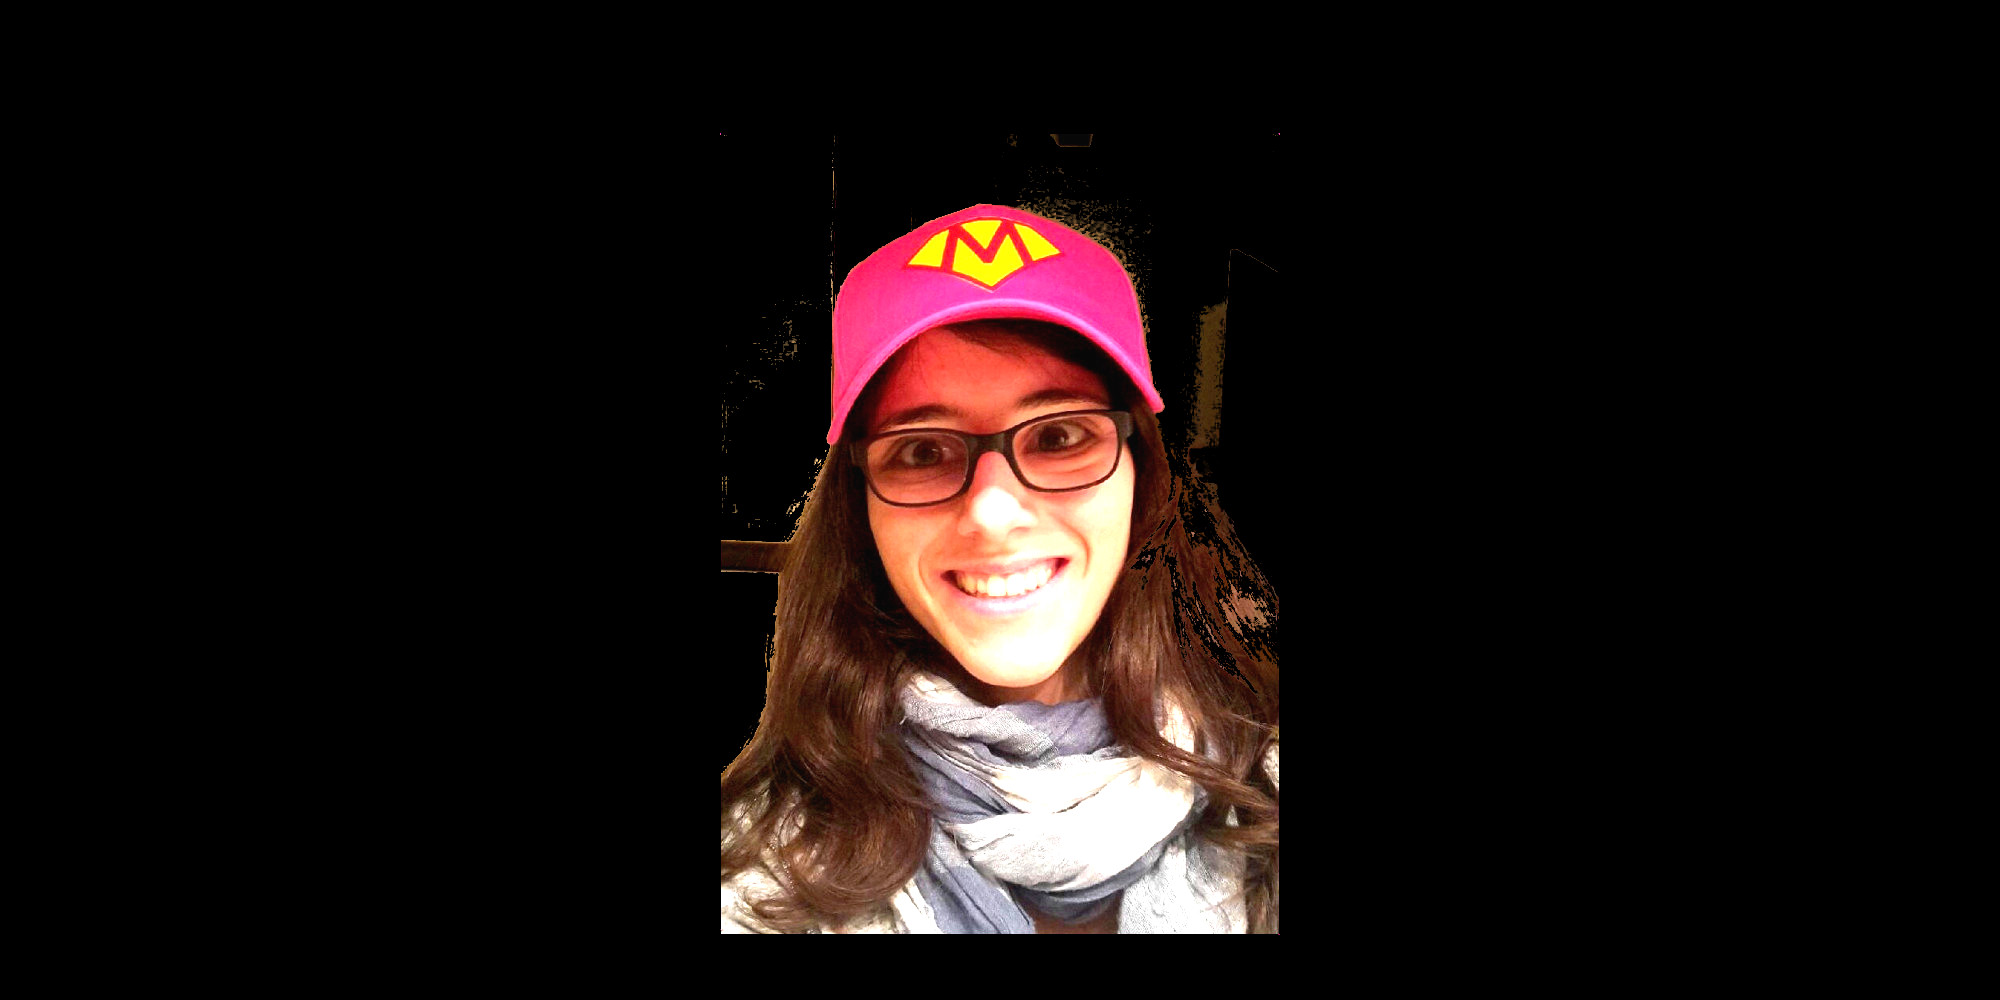
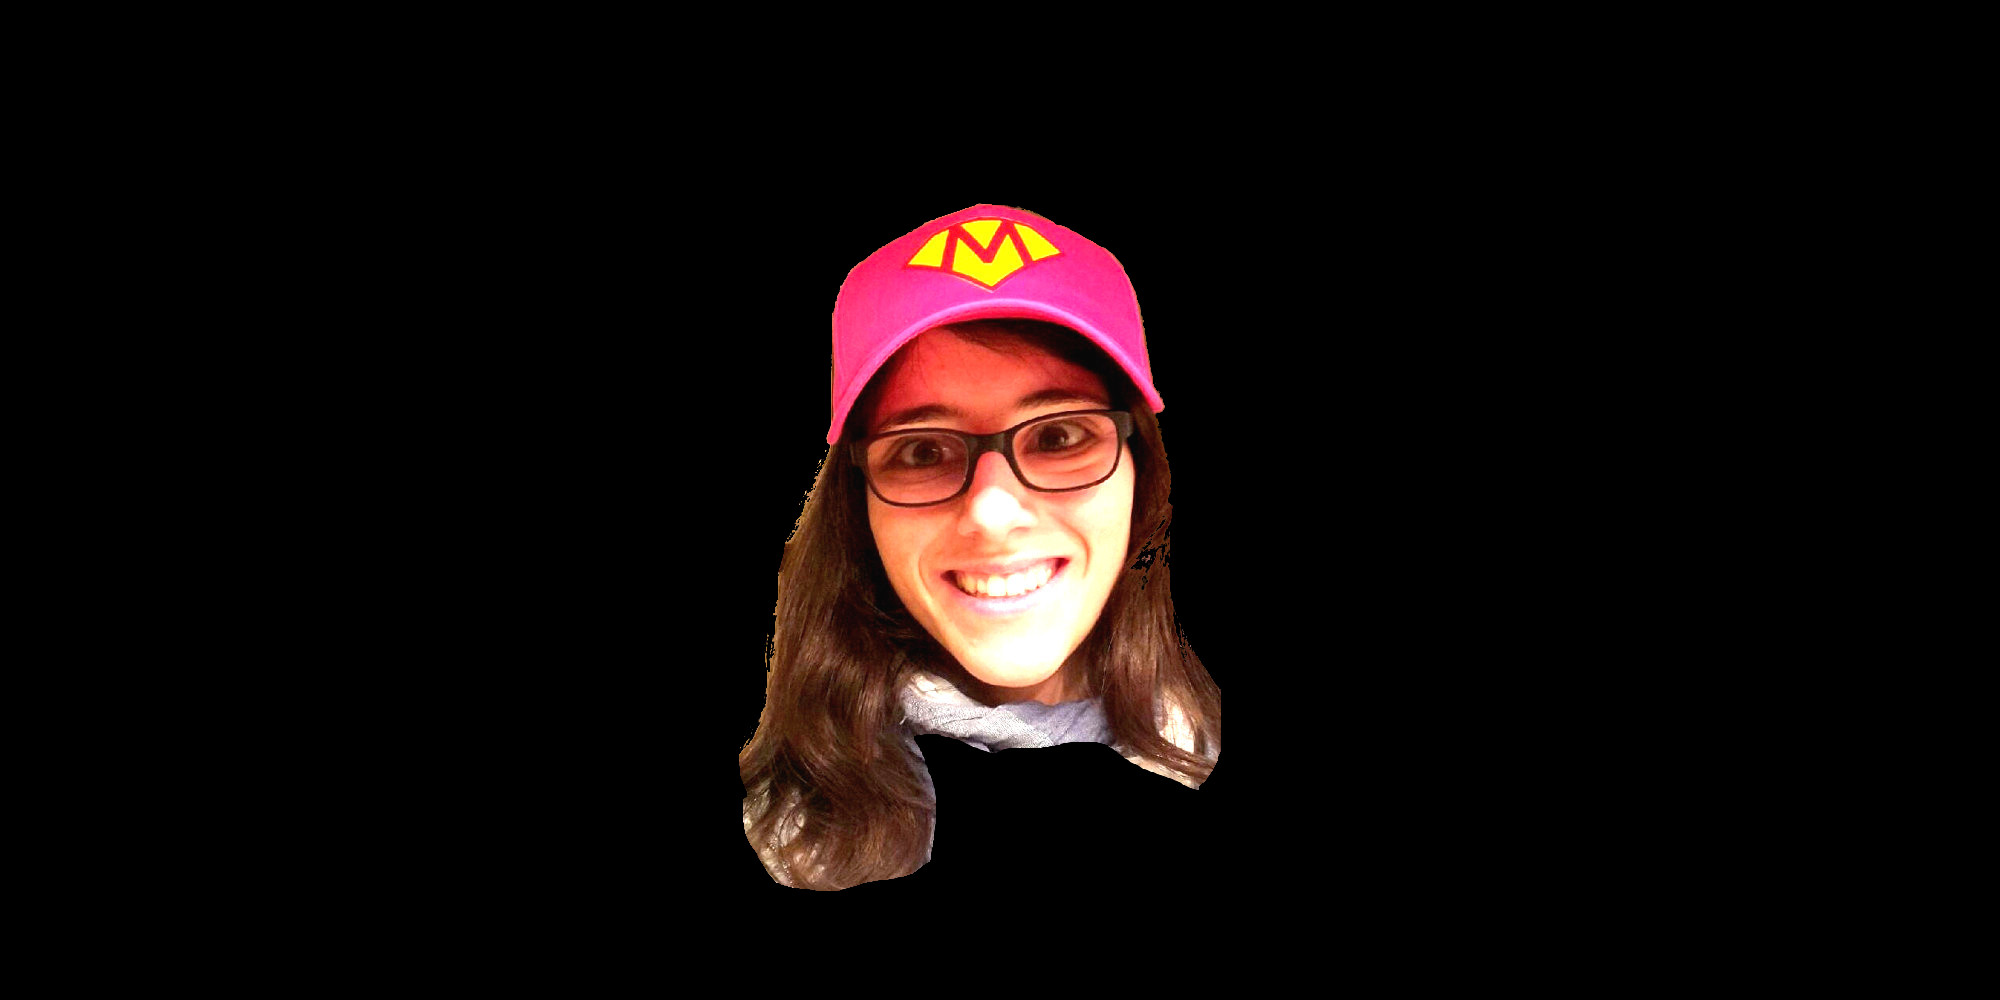
add smoothg image

diff --git a/MendezTransform/MendezView.m b/MendezTransform/MendezView.m
@@ -33,14 +33,16 @@
     transformsView.frame = CGRectMake(0, self.bounds.size.width/2,
                                       self.bounds.size.width, height);
     
-    comparingButton.frame = CGRectMake(0, buttony, 2 * buttonunit, controlsheight);
-    fineButton.frame = CGRectMake(2 * buttonunit, buttony, controlsheight, controlsheight);
+    comparingButton.frame = CGRectMake(3, buttony + 3, 2 * buttonunit - 6, controlsheight - 6);
+    fineButton.frame = CGRectMake(2 * buttonunit + 3, buttony + 3, buttonunit - 6, controlsheight - 6);
     
-    axisButton.frame = CGRectMake(3 * buttonunit, buttony, buttonunit, controlsheight);
+    axisButton.frame = CGRectMake(3 * buttonunit + 3, buttony + 3, buttonunit - 6, controlsheight - 6);
     
-    colorButton.frame = CGRectMake(9 * buttonunit, buttony, buttonunit, controlsheight);
+    randomButton.frame = CGRectMake(4 * buttonunit + 3, buttony + 3, buttonunit - 6, controlsheight - 6);
+    colorButton.frame = CGRectMake(8 * buttonunit + 3, buttony + 3, buttonunit - 6, controlsheight - 6);
+    smoothButton.frame = CGRectMake(9 * buttonunit + 3, buttony + 3, buttonunit - 6, controlsheight - 6);
     
-    imageSelectionButton.frame = CGRectMake(10 * buttonunit, buttony, 2 * buttonunit, controlsheight);
+    imageSelectionButton.frame = CGRectMake(10 * buttonunit + 3, buttony + 3, 2 * buttonunit - 6, controlsheight - 6);
 }
 
 - (void)setupSubviews {
@@ -54,25 +56,41 @@
     [self addSubview: transformsView];
     
     comparingButton = [[UIButton alloc] init];
+    comparingButton.backgroundColor = [UIColor whiteColor];
     [comparingButton setTitleColor: [UIColor blackColor] forState: UIControlStateNormal];
     [comparingButton setTitle: @"Rotate" forState: UIControlStateNormal];
     [comparingButton addTarget: self action: @selector(toggleComparing:) forControlEvents: UIControlEventTouchUpInside];
     [self addSubview: comparingButton];
     
     fineButton = [[UIButton alloc] init];
+    fineButton.backgroundColor = [UIColor whiteColor];
     [fineButton setTitleColor: [UIColor blackColor] forState: UIControlStateNormal];
     [fineButton setTitle: @"Fine" forState: UIControlStateNormal];
     [fineButton addTarget: self action: @selector(toggleFine:) forControlEvents: UIControlEventTouchUpInside];
     [self addSubview: fineButton];
     
     axisButton = [[UIButton alloc] init];
+    axisButton.backgroundColor = [UIColor whiteColor];
     [axisButton setTitleColor: [UIColor blackColor] forState: UIControlStateNormal];
     [axisButton setTitle: @"Axis" forState: UIControlStateNormal];
     [axisButton addTarget: spheresView action: @selector(toggleAxis:) forControlEvents: UIControlEventTouchUpInside];
     [self addSubview: axisButton];
     
+    randomButton = [[UIButton alloc] init];
+    randomButton.backgroundColor = [UIColor whiteColor];
+    [randomButton setTitleColor: [UIColor blackColor] forState: UIControlStateNormal];
+    [randomButton setTitle: @"Random" forState: UIControlStateNormal];
+    [self addSubview: randomButton];
+    
+    smoothButton = [[UIButton alloc] init];
+    smoothButton.backgroundColor = [UIColor whiteColor];
+    [smoothButton setTitleColor: [UIColor blackColor] forState:UIControlStateNormal];
+    [smoothButton setTitle: @"Smooth" forState: UIControlStateNormal];
+    [self addSubview: smoothButton];
+    
     // Button to switch to color mode
     colorButton = [[UIButton alloc] init];
+    colorButton.backgroundColor = [UIColor whiteColor];
     [colorButton setTitleColor: [UIColor blackColor] forState: UIControlStateNormal];
     [colorButton setTitle: @"Mono" forState: UIControlStateNormal];
     [colorButton addTarget: self action: @selector(colorPressed:) forControlEvents: UIControlEventTouchUpInside];
@@ -80,6 +98,7 @@
     
     // Button to request the image selection
     imageSelectionButton = [[UIButton alloc] init];
+    imageSelectionButton.backgroundColor = [UIColor whiteColor];
     [imageSelectionButton setTitleColor: [UIColor blackColor] forState: UIControlStateNormal];
     [imageSelectionButton setTitle: @"Select Image" forState: UIControlStateNormal];
 
@@ -173,5 +192,14 @@
     NSLog(@"setting prerotation in MendezView");
     spheresView.prerotation = App2SCN3(r);
 }
+
+- (void)addRandomButtonTarget: (id)target action: (SEL)action {
+    [randomButton addTarget: target action: action forControlEvents:UIControlEventTouchUpInside];
+}
+
+- (void)addSmoothButtonTarget: (id)target action: (SEL)action {
+    [smoothButton addTarget: target action:action forControlEvents:UIControlEventTouchUpInside];
+}
+
 
 @end

diff --git a/MendezTransform/SpheresView.m b/MendezTransform/SpheresView.m
@@ -11,7 +11,7 @@
 
 @implementation SpheresView
 
-@synthesize fine, center;
+@synthesize center;
 
 #define SPHERE_SEPARATION   3.3
 #define SPHERE_RADIUS       3.0
@@ -26,16 +26,14 @@
     return self;
 }
 
-#if 0
-- (SCNVector3)prerotateAxis {
-    return prerotateAxis;
+- (BOOL)fine {
+    return fine;
 }
 
-- (void)setPrerotateAxis:(SCNVector3)a {
-    prerotateAxis = SCNVector3Normalized(a);
-    prerotateArrow.rotation = [self rotationToAxis: prerotateAxis];
+- (void)setFine: (BOOL)f {
+    fine = f;
+    centerNode.hidden = !f;
 }
-#endif
 
 - (BOOL)showAxis {
     return showAxis;
@@ -134,7 +132,6 @@
     leftArrow = [self arrow: [UIColor redColor]];
     rightArrow = [self arrow: [UIColor redColor]];
 
-
     leftArrow.position = SCNVector3Make(-SPHERE_SEPARATION, 0, 0);
     rightArrow.position = SCNVector3Make(SPHERE_SEPARATION, 0, 0);
     
@@ -147,11 +144,22 @@
     prerotateArrow.position = SCNVector3Make(-SPHERE_SEPARATION, 0, 0);
     prerotateArrow.hidden = YES;
     
+    SCNSphere   *centerSphere = [SCNSphere sphereWithRadius: 0.1];
+    SCNMaterial *centerMaterial = [SCNMaterial material];
+    centerMaterial.diffuse.contents = [UIColor yellowColor];
+    centerMaterial.shininess = 0.5;
+    [centerSphere removeMaterialAtIndex: 0];
+    centerSphere.materials = @[centerMaterial];
+    
+    centerNode = [SCNNode nodeWithGeometry: centerSphere];
+    centerNode.hidden = YES;
+    
     [scene.rootNode addChildNode: leftNode];
     [scene.rootNode addChildNode: rightNode];
     [scene.rootNode addChildNode: leftArrow];
     [scene.rootNode addChildNode: rightArrow];
     [scene.rootNode addChildNode: prerotateArrow];
+    [scene.rootNode addChildNode: centerNode];
     
     self.allowsCameraControl = NO;
     
@@ -235,6 +243,8 @@
     return comparing;
 }
 
+#define ANIMATION_TIME 2.0
+
 - (void)setComparing: (BOOL)_comparing {
     NSLog(@"toggle comparison mode");
     if (comparing == _comparing) {
@@ -244,22 +254,30 @@
     SCNMaterial *material = [leftSphere firstMaterial];
     if (comparing) {
         NSLog(@"comparing");
+        rightArrow.hidden = YES;
+        [SCNTransaction begin];
+        [SCNTransaction setAnimationDuration: ANIMATION_TIME];
         leftSphere.radius = SPHERE_RADIUS * 1.004;
         leftNode.position = SCNVector3Make(0, 0, 0);
         rightNode.position = SCNVector3Make(0, 0, 0);
         leftArrow.position = SCNVector3Make(0, 0, 0);
-        rightArrow.hidden = YES;
         prerotateArrow.position = SCNVector3Make(0, 0, 0);
         material.transparent.contents = transparentImage;
+        [SCNTransaction commit];
     } else {
         NSLog(@"not comparing");
+        [SCNTransaction begin];
+        [SCNTransaction setAnimationDuration: ANIMATION_TIME];
         leftSphere.radius = SPHERE_RADIUS;
         leftNode.position = SCNVector3Make(-SPHERE_SEPARATION, 0, 0);
         rightNode.position = SCNVector3Make(SPHERE_SEPARATION, 0, 0);
         leftArrow.position = SCNVector3Make(-SPHERE_SEPARATION, 0, 0);
-        rightArrow.hidden = NO;
         prerotateArrow.position = SCNVector3Make(-SPHERE_SEPARATION, 0, 0);
         material.transparent.contents = nil;
+        [SCNTransaction setCompletionBlock:^{
+            rightArrow.hidden = NO;
+        }];
+        [SCNTransaction commit];
     }
     [leftSphere removeMaterialAtIndex: 0];
     leftSphere.materials = @[material];

diff --git a/MendezTransform/ViewController.m b/MendezTransform/ViewController.m
@@ -20,6 +20,15 @@
 
 @implementation ViewController
 
+- (AppVector3)prerotation {
+    return mendezView.prerotation;
+}
+
+- (void)setPrerotation:(AppVector3)prerotation {
+    leftFunction.rotation = [[Rotation alloc] initVector: prerotation];
+    mendezView.prerotation = prerotation;
+}
+
 #define prerotate (M_PI / 2)
 
 - (void)viewDidLoad {
@@ -29,12 +38,13 @@
     [mendezView addSelectionTarget: self action: @selector(popupImageSelection:)];
     [mendezView addAxisChangedTarget: self action: @selector(axisChanged:)];
     [mendezView addColorTarget: self action: @selector(toggleColor:)];
+    [mendezView addRandomButtonTarget: self action: @selector(randomAction:)];
+    [mendezView addSmoothButtonTarget: self action: @selector(smoothAction:)];
     leftFunction = [[SphereFunction alloc] init];
     rightFunction = [[SphereFunction alloc] init];
     
     AppVector3  initialaxis = AppVector3Normalized(AppVector3Make(1, 2, 1));
-    leftFunction.rotation = [[Rotation alloc] initVector: initialaxis];
-    mendezView.prerotation = initialaxis;
+    self.prerotation = initialaxis;
     
     Mtransform_size = [mendezView recommendedTransformSize];
     mtransform = [[Mtransform alloc] initWidth: Mtransform_size height:Mtransform_size];
@@ -71,6 +81,16 @@
 }
 
 - (void)setImage: (UIImage *)image {
+    if (nil == image) {
+        return;
+    }
+    normalImage = image;
+    smoothImage = nil;
+    smooth = NO;
+    [self setImageInternal: normalImage];
+}
+
+- (void)setImageInternal:(UIImage *)image {
     [mendezView setImage: image];
     [leftFunction setImage: image];
     [rightFunction setImage: image];
@@ -96,5 +116,48 @@
     mtransform.color = color;
     [self recompute];
 }
+
+- (void)randomAction:(id)sender {
+    NSLog(@"randomAction");
+    AppPolar    p;
+    p.phi = 2 * M_PI * (random() / (float)RAND_MAX);
+    float t = 2 * (random() / (float)RAND_MAX) - 1;
+    p.theta = acosf(t);
+    p.r = 2 * M_PI * (0.5 - (random() / (float)RAND_MAX));
+    AppVector3  pre = AppPolar2Vector3(p);
+    self.prerotation = pre;
+    [self recompute];
+}
+
+- (void)smoothAction: (id)sender {
+    NSLog(@"smoothAction");
+    smooth = !smooth;
+    if (smooth) {
+        if (nil == smoothImage) {
+            NSLog(@"make smooth");
+            CIImage *inputImage = nil;
+            CIContext *context = [CIContext contextWithOptions:nil];
+            if (normalImage.CIImage != nil) {
+                inputImage = normalImage.CIImage;
+            }
+            if (normalImage.CGImage != nil) {
+                NSLog(@"have CGImage data");
+                inputImage = [CIImage imageWithCGImage: normalImage.CGImage];
+            }
+            CIFilter *filter = [CIFilter filterWithName:@"CIGaussianBlur"];
+            [filter setValue:inputImage forKey:kCIInputImageKey];
+            [filter setValue:[NSNumber numberWithDouble:6.0] forKey:@"inputRadius"];
+            //CIImage *result = [filter valueForKey:kCIOutputImageKey];
+            CIImage *outputImage = [filter outputImage];
+            CGImageRef  outputCGImage = [context createCGImage:outputImage fromRect:[outputImage extent]];
+            smoothImage = [UIImage imageWithCGImage: outputCGImage];
+        }
+        [self setImageInternal: smoothImage];
+    } else {
+        [self setImageInternal: normalImage];
+    }
+}
+
+
 
 @end

diff --git a/MendezTransform/MendezView.h b/MendezTransform/MendezView.h
@@ -21,6 +21,8 @@
     IBOutlet MendezTransformsView   *transformsView;
     IBOutlet UIButton   *colorButton;
     IBOutlet UIButton   *axisButton;
+    IBOutlet UIButton   *randomButton;
+    IBOutlet UIButton   *smoothButton;
     id  colorTarget;
     SEL colorAction;
     SCNVector3 axis;
@@ -52,5 +54,9 @@
 // color
 - (void)addColorTarget: (id)target action: (SEL)action;
 - (void)colorPressed: (id)sender;
+
+// random button
+- (void)addRandomButtonTarget: (id)target action: (SEL)action;
+- (void)addSmoothButtonTarget: (id)target action: (SEL)action;
 
 @end

diff --git a/MendezTransform/ViewController.h b/MendezTransform/ViewController.h
@@ -19,13 +19,21 @@
     Mtransform  *mtransform;
     NSUInteger  Mtransform_size;
     BOOL color;
+    UIImage *normalImage;
+    UIImage *smoothImage;
+    BOOL smooth;
 }
 
+@property (readwrite) AppVector3 prerotation;
+
 - (void)setImage: (UIImage *)image;
+- (void)setImageInternal: (UIImage *)image;
 - (void)popupImageSelection: (id)sender;
 - (void)axisChanged: (id)sender;
 - (void)recompute;
 - (void)toggleColor:(id)sender;
+- (void)randomAction: (id)sender;
+- (void)smoothAction: (id)sender;
 
 @end
 

diff --git a/MendezTransform/SpheresView.h b/MendezTransform/SpheresView.h
@@ -19,6 +19,8 @@
     SCNSphere   *rightSphere;
     SCNNode *rightNode;
     
+    SCNNode *centerNode;
+    
     SCNNode *leftArrow;
     SCNNode *rightArrow;
     
@@ -30,6 +32,7 @@
     SEL axisChangedAction;
     
     BOOL comparing;
+    BOOL fine;
     
     UIImage *opaqueImage;
     UIImage *transparentImage;
